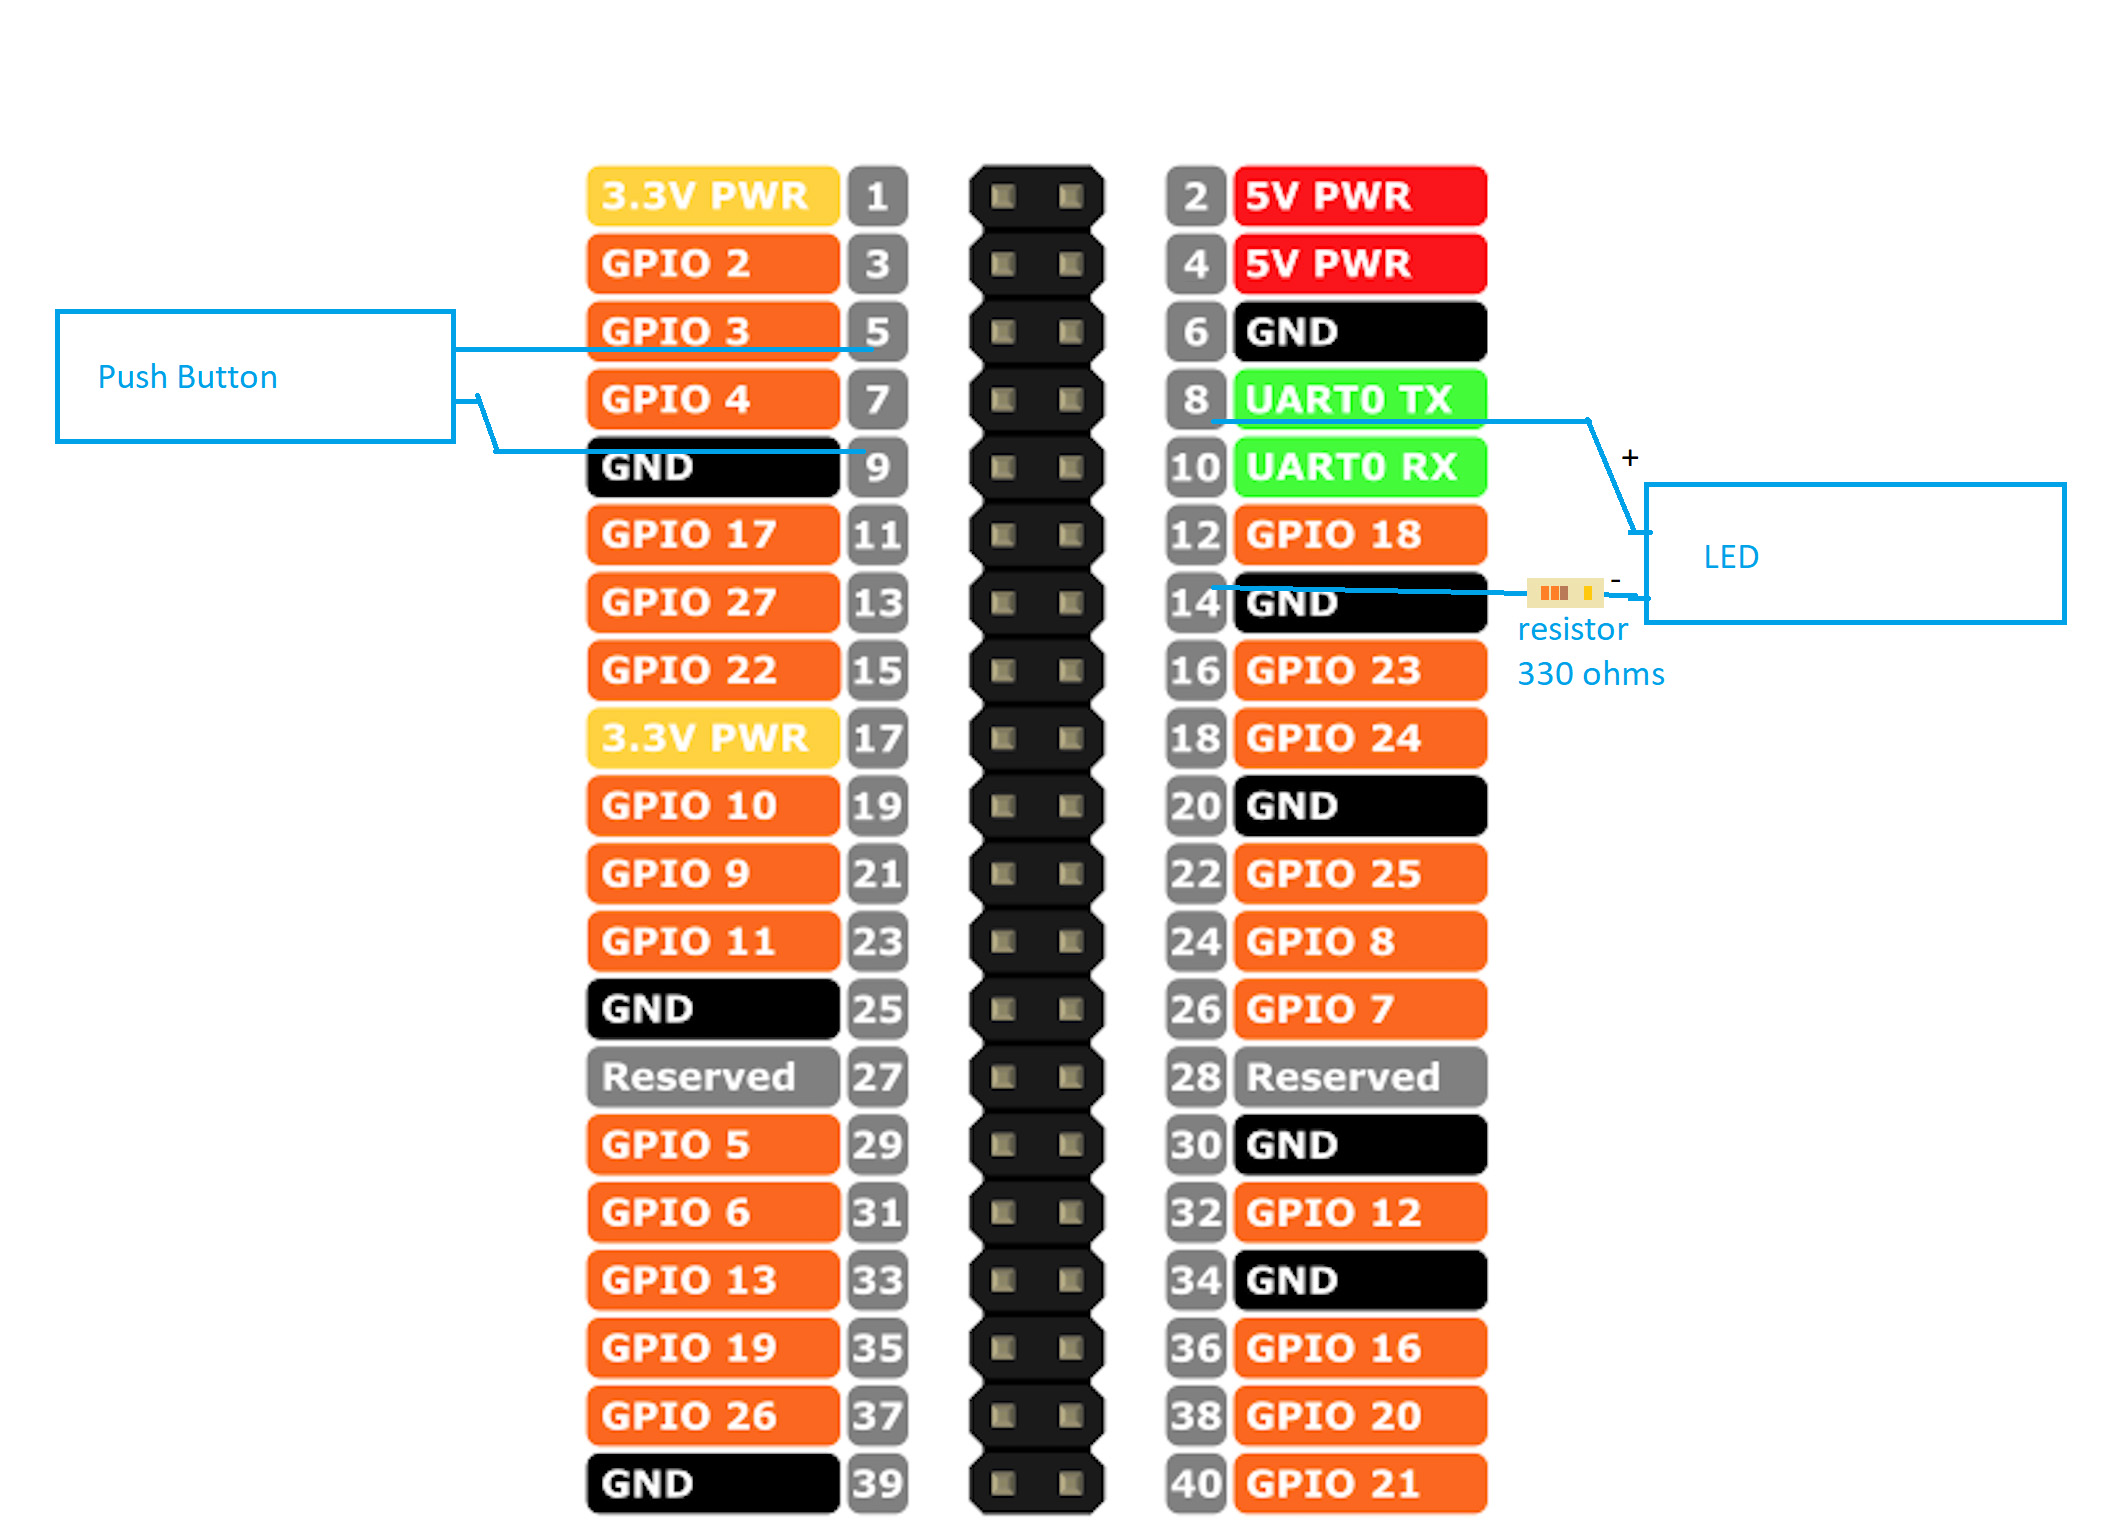
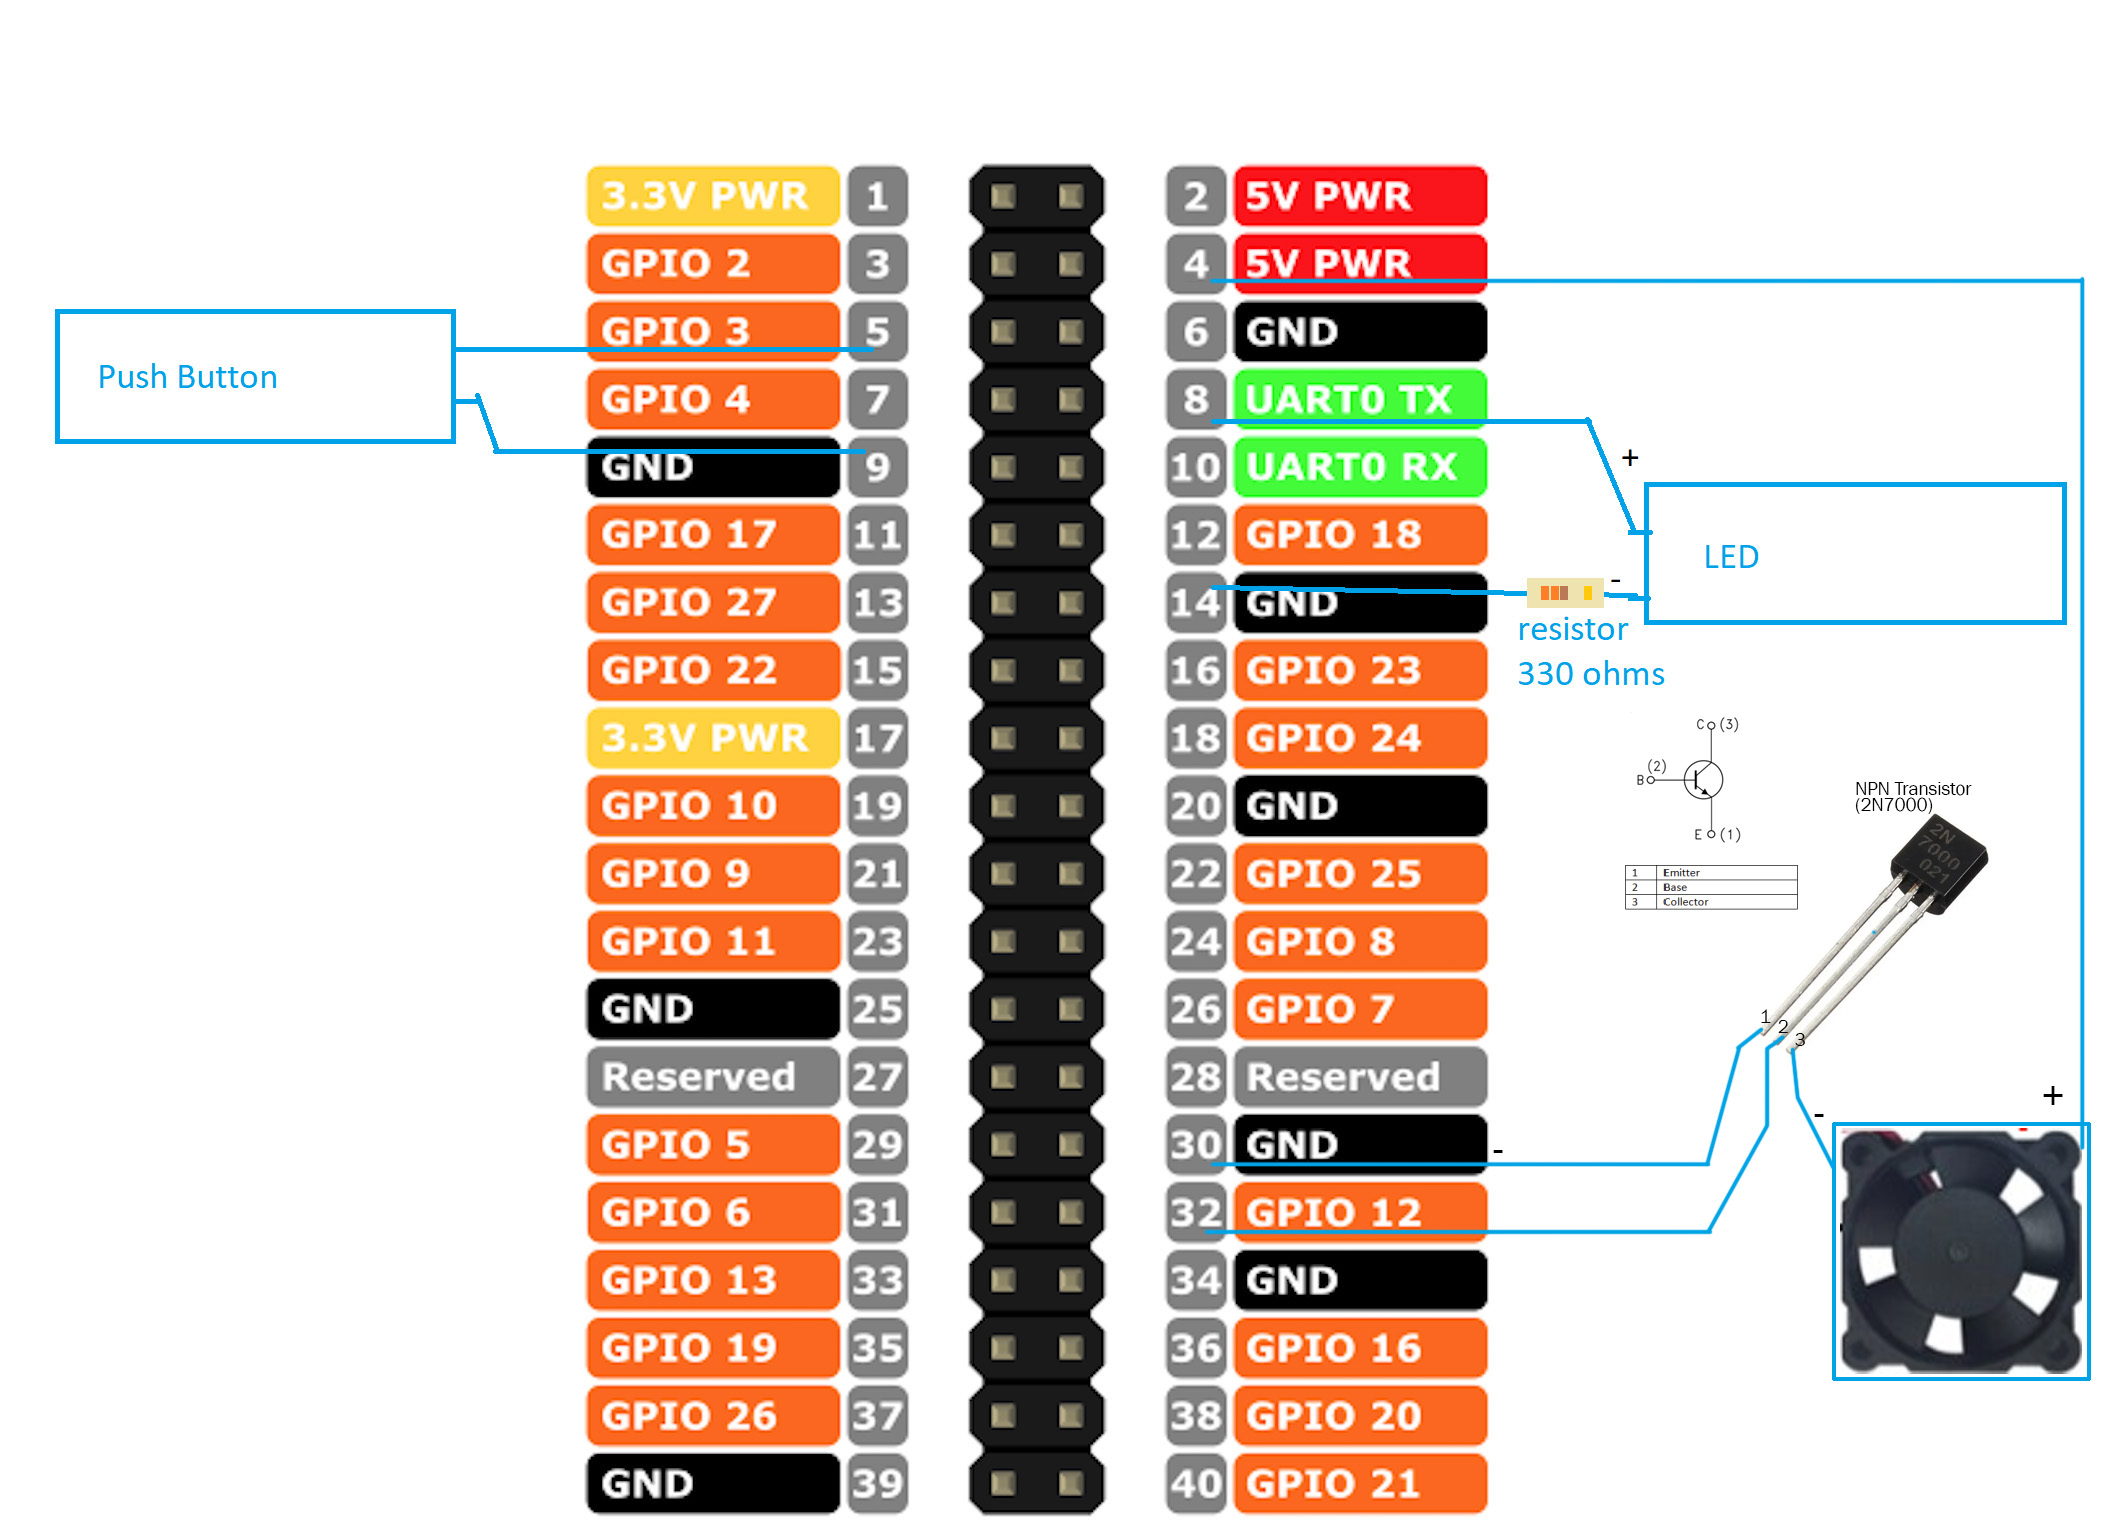
Readme Update

diff --git a/README.md b/README.md
@@ -6,13 +6,13 @@
 Access control with face recognition for Raspberry Pi.
 
 * MIT License
-* LGPDP Brasil Safe (Lei Geral de Proteção de Dados Pessoais)
+* LGPD/ GDPR Safe
 
 ## Background
 
 This project is a Raspberry Pi port and refactoring from my [Face Access project](https://github.com/alexandremendoncaalvaro/face-access).  
 This project is for Makers! People that love the concept of DIY (Do It Yourself).  
-The idea is to make a very easy option to build an DIY access control with face recognition at your door.  
+The idea is to make an easy option to build an DIY access control with face recognition at your door.  
 
 It´s MIT License. A short and simple permissive license with conditions only requiring preservation of copyright and license notices. Licensed works, modifications, and larger works may be distributed under different terms and without source code.  
 
@@ -23,25 +23,36 @@ Feel free to make a fork and contribute with the project upgrade and maintenance
 So.. Don´t worry, be happy!
 
 ## Recomended requirements
-
 ### Hardware
 
-* Raspberry Pi 3B+ or above
-* Compatible class 10 [SD Card](https://www.raspberrypi.org/documentation/installation/sd-cards.md) with 16GB or above
-* Raspberry Pi Camera Module
-* Raspberry Pi LCD Screen (optional)
-* Raspberry Pi official font or USB Charger (at least 3A current) and USB Type-A to micro-USB cable (the most common found on smartphones)
-* Monitor ²
-* HDMI cable ²
-* Solenoid Door lock
-* 5V Relay module
-* 12VDC Power source
-* Push-button (with or without LED)³
+* Raspberry Pi
+  * Raspberry Pi 3B+ or above
+  * Compatible class 10 [SD Card](https://www.raspberrypi.org/documentation/installation/sd-cards.md) with 16GB or above
+  * Raspberry Pi Camera Module
+  * Raspberry Pi official charger
+    * Or a 5V DC USB Charger (at least 3A) + USB Type-A to micro-USB cable
+* Configuration ²
+  * HDMI Monitor
+  * HDMI cable
+  * USB Mouse
+  * USB Keyboard
+* Door Lock
+  * 12V DC Solenoid Door lock + Power source
+  * 5V DC Relay module
+* Extra Features
+  * Raspberry Pi LCD Screen (optional, you can use a monitor instead)
+  * Push-button (with or without LED)³
+  * DIY Case for Raspberry, Camera, LCD, Power Button
 
 >¹Unlike USB webcam, the Camera module is connected directly to the Raspberry Pi GPU  
-²At least for the configuration process  
+²At least for the first configuration process  
 ³If your button have LED use a resistor to drop-down current  
-Use this to calculate the resistor value: https://www.hobby-hour.com/electronics/ledcalc.php
+Use this to calculate the resistor value: https://www.hobby-hour.com/electronics/ledcalc.php  
+
+#### My Raspberry case  
+![Case Front](readme_images/case_front.JPG)  
+![Case Back](readme_images/case_back.JPG)  
+![Case Internal](readme_images/case_intern.JPG)  
 
 ### Raspberry Pi software and O.S.
 
@@ -59,7 +70,7 @@ So, I strongly recommend that you use an extra computer to handle Raspberry Pi r
 
 * Supported [SSH Client](https://code.visualstudio.com/docs/remote/troubleshooting#_installing-a-supported-ssh-client)
 * [VS Code](https://code.visualstudio.com/download)
-* The fantastic VS Code plugin: [Remote - SSH](https://marketplace.visualstudio.com/items?itemName=ms-vscode-remote.remote-ssh)  
+* [Remote - SSH](https://marketplace.visualstudio.com/items?itemName=ms-vscode-remote.remote-ssh) VS Code plugin  
 * X11 Forwarding tool
   * MacOS
     * [XQuartz](https://www.xquartz.org/)
@@ -68,7 +79,7 @@ So, I strongly recommend that you use an extra computer to handle Raspberry Pi r
   * Linux
     * Native
 
->Tested on Windows 10, Ubuntu 20.04 LTS and MacOS X Mojave.
+>Tested with Windows 10, Ubuntu 20.04 LTS and MacOS X Mojave.
 
 # Install
 
@@ -90,108 +101,58 @@ Review your selections and click 'WRITE' to begin writing data to the SD card.
 
 ![rasp](readme_images/rasp.png)  
 Connect the Raspberry Pi to the monitor using the HDMI cable.  
-Insert the SD card into the Raspberry Pi and power it up with the micro-USB input.  
+Insert the SD card into the Raspberry Pi and power it up by connecting the charger input.  
 If you need to manually log in, the default user name is **pi**, with password **raspberry**. Remember the default keyboard layout is set to UK.  
 You should change the default password straight away to ensure your Raspberry Pi is secure.  
 Follow the steps on the screen to configure Raspberry Pi for the first use.  
-It´s important to configure Wifi or Ethernet in the same network of your computer.
+It´s important to configure Wifi or Ethernet in the same network of your computer.  
 
-### Enable Raspberry Pi Features
+## Enable Raspberry Pi Features
 
 On your Raspberry Pi, choose Menu > Preferences > Raspberry Pi Configuration.  
-Click on Interfaces and set Camera and SSH to Enabled. Click OK. You don’t need to restart your Raspberry Pi, and SSH will be enabled whenever you use that installation of Raspbian from that point on.
+Click on Interfaces and set Camera and SSH to Enabled. Click OK. You don’t need to restart your Raspberry Pi, and SSH will be enabled whenever you use that installation of Raspbian from that point on.  
 
 ![menu](readme_images/pi-configuration-menu.png)
 ![SSH](readme_images/ssh.jpg)
->more about SSH on Raspberry at [Magpi](https://magpi.raspberrypi.org/articles/ssh-remote-control-raspberry-pi)
 
-Press Ctrl + Shift + T to open the Terminal and use the command bellow to check Raspberry Pi IP address:
+> *If the camera option is not avaliable, use raspi-config command from terminal and enable the Legacy Camera inside Interfaces option  
+> *Read more about SSH on Raspberry at [Magpi](https://magpi.raspberrypi.org/articles/ssh-remote-control-raspberry-pi)
 
-```bash
-ip a
-```
 
-In my case it´s connected by Wifi, and returns:
-
-![SSH](readme_images/ip.jpg)
-
->Take note of the address of your connected interface.
-
-## Remote Control
-
-You have several options to control your Raspberry Pi remotely, like a simple [VNC access](https://www.raspberrypi.org/documentation/remote-access/vnc/).  
-But with this aproach all of your environment features needs to be installed on Raspberry Pi, and it's expend a lot of resources of Raspberry Pi.  
-
-So, let's keep all enviroment features on your computer and only install the resources to run the application on your Raspberry Pi.
-
-## Integrated Development Enviroment (IDE)
-
-![pc](readme_images/pc.png)  
->Please check carefully and install all the [Computer Software recomended requirements](#computer-software).
-
-### Recommended Terminal
-
-The [Remote - SSH extension](https://marketplace.visualstudio.com/items?itemName=ms-vscode-remote.remote-ssh) does not currently enable X11 forwarding in VSCode Terminal witch is necessary to see graphical resources on your computer. (see [issue #267](https://github.com/microsoft/vscode-remote-release/issues/267)).  
-So we are going to use recommended terminal and X11 Forwarding app for each Operational System:
-
-* Linux: System Terminal (Native resource)
-* MacOS: System Terminal with [XQuartz](https://www.xquartz.org/)
-* Windows: [MobaxTerm](https://mobaxterm.mobatek.net/) (Very powerfull and easy)
-
-### SSH Connection
-
-> Remember to run the X11 Forwarding Server In MacOS (XQuartz) before connect.
-
-Open the [recommended terminal](#recommended-terminal) and verify you can connect to the SSH host by running the following command replacing IP address as appropriate:
-
-```bash
-ssh -Y pi@192.168.0.42
-```
-
-### File Transfer
-
-You can tranfer files using the SCP command like this example, replacing parameters as appropriate ([more details here](https://linuxize.com/post/how-to-use-scp-command-to-securely-transfer-files)):  
-
-```bash
-scp file.txt pi@192.168.0.42:/remote/directory
-```
-
-> In Windows you can use MobaXterm Visual Interface
-
-In VS Code select Remote-SSH: Connect to Host... from the Command Palette (F1) and use the same pi@ipaddress as in last step.
-
-![ssh-user@box](https://code.visualstudio.com/assets/docs/remote/ssh/ssh-user@box.png)
-
-After a moment, VS Code will connect to the SSH server and set itself up.  
-After you are connected, you'll be in an empty window. You can always refer to the Status bar to see which host you are connected to.
-
-![ssh-statusbar](https://code.visualstudio.com/assets/docs/remote/ssh/ssh-statusbar.png)
-
-You can then open any folder or workspace on the remote machine using File > Open... or File > Open Workspace... just as you would locally!
-
-![ssh-open-folder](https://code.visualstudio.com/assets/docs/remote/ssh/ssh-open-folder.png)  
+* See the [Raspberry Pi remote use tips](#raspberry-pi-remote-use-tips) session
 
 ## Install OpenCV and Dlib
-### About poetry
+### About Virtual Enviroment
 
-We´re going to use poetry.  
-This great tool brings python virtual environment and package management to another level.  
+We´re going to use Virtual Enviroments.  
+This tool brings python package management to another level.  
 
-To know more access: https://python-poetry.org/docs/
+#### Install
+```bash
+pip install virtualenv
+```
+#### Create
+```bash
+virtualenv virtualenv_name
+```
+#### Activate
+```bash
+source virtualenv_name/bin/activate
+```
+#### Deactivate
+```bash
+deactivate
+```
 
 ### IMPORTANT
-EVERY TIME you open a new terminal to run a python file you will need to enable poetry resources at this terminal.  
-To enable an installed enviroment, navigate to the project folder (the one with config.toml file) and run:  
+
+EVERY TIME you open a new terminal to run a python file you will need to enable virtualenv resources at this terminal.  
+To enable an installed enviroment, navigate to the project folder and run:  
 
 ```bash
-poetry shell
+source virtualenv_name/bin/activate
 ```
-
-To install new PIP libraries use poetry instead of pip, like:
-
-```bash
-poetry add numpy
-```
+Now you can install pip packages inside the virtual enviroment  
 
 ## Two commands installation
 
@@ -243,18 +204,23 @@ cd ~/install-opencv-dlib-raspbian && python ~/install-opencv-dlib-raspbian/test-
 ```
 
 # Equipment Build
+## Hardware GPIO connection
+
+![gpio](readme_images/gpio.jpg)  
+>In my specific case the resistor needed was 330 Ω
+
 ## Soft power button
+
 Like ATX Power supply purpose on PCs, we need to avoid corrupted or lost data when turning off devices with embedded operating system environments.
 So, this is a simple way to install and use a similar resource for Raspberry Pi with Raspbian.  
 
 I've create a script to automate the configuration.  
 If you want to check what is under the hood: [Here is the open source code](https://github.com/alexandremendoncaalvaro/soft-power-button-raspberry)
 
-### Hardware connection
-![gpio](readme_images/gpio.jpg)  
->In my specific case the resistor needed was 330 Ω
+> The LED is optional
 
 ### Soft power button System Configuration
+
 ![rasp](readme_images/rasp.png)  
 * Run in Raspberry Pi Terminal:
 ```bash
@@ -264,12 +230,94 @@ If you want to check what is under the hood: [Here is the open source code](http
 * Done!
 
 ### Soft power button usage
+
 Like in modern PCs, just press the power button to turn it on or off.
 
-# Using the system
-UNDER CONSTRUCTION
-## Handling users
-UNDER CONSTRUCTION
+## FAN Cooling
 
-## Are you a native english speaker?
-No, I am not. If you find typos, grammar errors or whatever please feel free to PR or tell me.
+If you would like to have some FAN, be cool.  
+
+![rasp](readme_images/rasp.png)  
+* Setup a cooling fan and NPN transistor accordind to [diagram](#hardware-gpio-connection).
+* Add config device tree overlays on /boot/config.txt.
+  ```
+  dtoverlay=gpio-fan,gpiopin=12,temp=55000
+  ```
+* Restart Raspberry PI
+
+# Using SeverinoPi System
+
+UNDER CONSTRUCTION  
+
+## User Management
+
+UNDER CONSTRUCTION  
+
+# Raspberry Pi remote use tips  
+
+You have several options to control your Raspberry Pi remotely, like a simple [VNC access](https://www.raspberrypi.org/documentation/remote-access/vnc/).  
+But with this aproach all of your environment features needs to be installed on Raspberry Pi, and it's expend a lot of resources of Raspberry Pi.  
+
+So, let's keep all enviroment features on your computer and only install the resources to run the application on your Raspberry Pi.  
+
+## Get Raspberry Pi IP Address
+
+![rasp](readme_images/rasp.png)  
+Press Ctrl + Shift + T to open the Terminal and use the command bellow to check Raspberry Pi IP address:
+
+```bash
+ip a
+```
+
+In my case it´s connected by Wifi, and returns:
+
+![SSH](readme_images/ip.jpg)
+
+>Take note of the address of your connected interface.
+
+## Integrated Development Enviroment (IDE)
+
+![pc](readme_images/pc.png)  
+>Please check carefully and install all the [Computer Software recomended requirements](#computer-software).
+
+## Recommended Terminal
+
+The [Remote - SSH extension](https://marketplace.visualstudio.com/items?itemName=ms-vscode-remote.remote-ssh) does not currently enable X11 forwarding in VSCode Terminal witch is necessary to see graphical resources on your computer. (see [issue #267](https://github.com/microsoft/vscode-remote-release/issues/267)).  
+So we are going to use recommended terminal and X11 Forwarding app for each Operational System:
+
+* Linux: System Terminal (Native resource)
+* MacOS: System Terminal with [XQuartz](https://www.xquartz.org/)
+* Windows: [MobaxTerm](https://mobaxterm.mobatek.net/) (Very powerfull and easy)
+
+## SSH Connection
+
+> Remember to run the X11 Forwarding Server In MacOS (XQuartz) before connect.
+
+Open the [recommended terminal](#recommended-terminal) and verify you can connect to the SSH host by running the following command replacing IP address as appropriate:
+
+```bash
+ssh -Y pi@192.168.0.42
+```
+
+## Transfer Files
+
+You can tranfer files using the SCP command like this example, replacing parameters as appropriate ([more details here](https://linuxize.com/post/how-to-use-scp-command-to-securely-transfer-files)):  
+
+```bash
+scp file.txt pi@192.168.0.42:/remote/directory
+```
+
+> In Windows you can use MobaXterm Visual Interface
+
+In VS Code select Remote-SSH: Connect to Host... from the Command Palette (F1) and use the same pi@ipaddress as in last step.
+
+![ssh-user@box](https://code.visualstudio.com/assets/docs/remote/ssh/ssh-user@box.png)
+
+After a moment, VS Code will connect to the SSH server and set itself up.  
+After you are connected, you'll be in an empty window. You can always refer to the Status bar to see which host you are connected to.
+
+![ssh-statusbar](https://code.visualstudio.com/assets/docs/remote/ssh/ssh-statusbar.png)
+
+You can then open any folder or workspace on the remote machine using File > Open... or File > Open Workspace... just as you would locally!
+
+![ssh-open-folder](https://code.visualstudio.com/assets/docs/remote/ssh/ssh-open-folder.png)  
